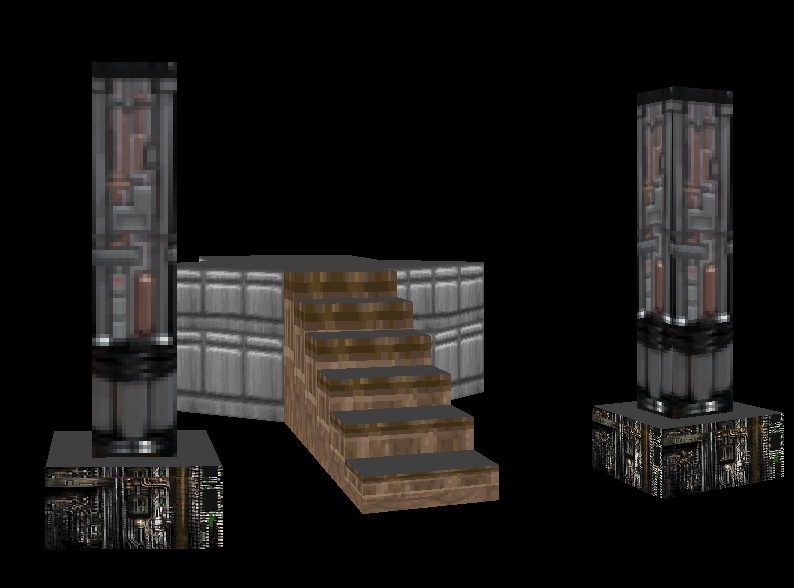
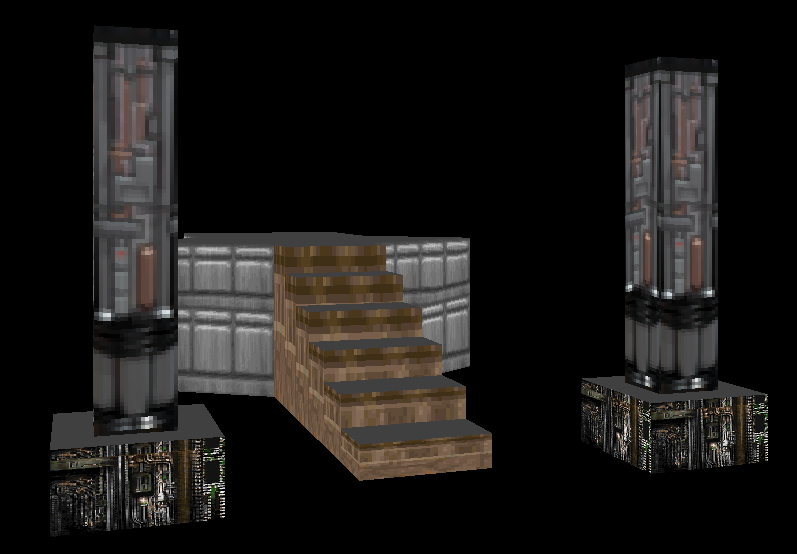
fixed distortion

diff --git a/src/rendering/renderer.cpp b/src/rendering/renderer.cpp
@@ -61,14 +61,13 @@ vertical_surface renderer::compute_surface(sf::RenderWindow* window, projection&
 
 void renderer::render_prism(sf::RenderWindow* window, prism& _prism, std::vector<projection>& projections) {
 
-
-    //std::vector<projection> projections = compute_prism_projections(window, _prism);
-
     if(projections.size() != _prism.edges.size()) {
         // TODO
         return;
     }
 
+
+    // Render walls
 
     int nedges = projections.size();
     int nsurfaces = nedges;
@@ -135,25 +134,21 @@ std::vector<projection> renderer::compute_prism_projections(sf::RenderWindow* wi
             sf::Vector2f rel_pos = edge - sf::Vector2f(_camera->pos.x, _camera->pos.y);
             sf::Vector2f camera_dir_2f(_camera->direction.x, _camera->direction.y);
             float distance = magnitude(rel_pos);
-            float theta = fabs(angle_between_vectors(rel_pos, camera_dir_2f));
-            float distance_undistorted = distance * cos(theta);
-            // float height = projected_height(distance_undistorted, _prism.height);
-            float height = projected_height(distance, _prism.height);
 
             sf::Vector3f top_vertex_3f(edge.x, edge.y, _prism.pos_z + _prism.height/2.f);
-            sf::Vector2f projection_plane_pos = project_point(top_vertex_3f);
+            sf::Vector2f top_projection_plane_pos = project_point(top_vertex_3f);
 
-            float projection_plane_y_top = projection_plane_pos.y;
-            float projection_plane_y_bot = projection_plane_y_top + height;
+            sf::Vector3f bot_vertex_3f(edge.x, edge.y, _prism.pos_z - _prism.height/2.f);
+            sf::Vector2f bot_projection_plane_pos = project_point(bot_vertex_3f); // TODO: avoid projecting x axis twice
 
             float x_scale = window->getSize().x / plane_width;
             float y_scale = window->getSize().y / plane_height;
 
             projections.push_back({
                 .distance = distance,
-                .projection_plane_x = x_scale * projection_plane_pos.x,
-                .projection_plane_y_top = y_scale * projection_plane_y_top,
-                .projection_plane_y_bot = y_scale * projection_plane_y_bot
+                .projection_plane_x = x_scale * top_projection_plane_pos.x,
+                .projection_plane_y_top = y_scale * top_projection_plane_pos.y,
+                .projection_plane_y_bot = y_scale * bot_projection_plane_pos.y
             });
         }
         catch(const std::exception& e) {
@@ -227,9 +222,12 @@ sf::Vector2f renderer::project_point(sf::Vector3f& point) {
     // Y axis projection
 
     float distance = magnitude(point_relative_position);
+    float theta = fabs(angle_between_vectors(point_relative_position, camera_dir_2f));
+    float distance_undistorted = distance * cos(theta);
+
     float delta_z = point.z - _camera->pos.z;
     float delta_z_abs = fabs(delta_z);
-    float projection_plane_delta_y = plane_distance / distance * delta_z_abs;
+    float projection_plane_delta_y = plane_distance / distance_undistorted * delta_z_abs;
     float projection_plane_pos_y = delta_z > 0 ?
         plane_height/2.f - projection_plane_delta_y :
         plane_height/2.f + projection_plane_delta_y;
@@ -239,13 +237,14 @@ sf::Vector2f renderer::project_point(sf::Vector3f& point) {
     return sf::Vector2f(projection_plane_pos_x, projection_plane_pos_y + camera_vertical_rotation_offset);
 }
 
-float renderer::projected_height(float distance, float real_height) {
+// float renderer::projected_height(float distance, float real_height) {
 
-    return 1.f / distance * real_height;
-}
+//     return 1.f / distance * real_height;
+// }
 
 float renderer::compute_prism_depth(const std::vector<projection>& projections) {
 
+    // TODO: improve this (ex: vertical distance)
     float sum_depth = 0.0f;
 
     for(const projection& _projection : projections) {

diff --git a/src/yar.cpp b/src/yar.cpp
@@ -24,7 +24,6 @@ yar::yar() : window(sf::VideoMode(800, 800), "yar"), _camera(),  _renderer(&_cam
 
 
 
-    //load_map();
     _renderer.load_textures_csv("../../../assets/maps/doom_stairs_textures.csv");
     _map.load_csv("../../../assets/maps/doom_stairs.csv");
 }
@@ -33,50 +32,6 @@ yar::~yar() {
 
 
 }
-
-void yar::load_map() {
-
-    //  _renderer.load_texture("stone_wall", "../../../assets/sprites/Stone.png");
-    // _renderer.load_texture("steel_wall", "../../../assets/sprites/Steel.png");
-
-    std::vector<sf::Vector2f> edges = { 
-        sf::Vector2f(3,-1), 
-        sf::Vector2f(3,1), 
-        sf::Vector2f(5,1),
-        sf::Vector2f(5,-1),
-    };
-    std::vector<std::string> surface_texture_ids = {"stone_wall", "stone_wall", "stone_wall", "stone_wall"};
-
-    prism p0 = {
-        .id = "p0",
-        .height = 2,
-        .pos_z = 1,
-        .edges = edges,
-        .surface_texture_ids = surface_texture_ids
-    };
-
-    _map.prisms.insert({p0.id, p0});
-
-    std::vector<sf::Vector2f> edges_2 = { 
-        sf::Vector2f(13,-1), 
-        sf::Vector2f(13,1), 
-        sf::Vector2f(15,1),
-        sf::Vector2f(16,0),
-        sf::Vector2f(15,-1),
-    };
-    std::vector<std::string> surface_texture_ids_2 = {"steel_wall", "steel_wall", "steel_wall", "steel_wall", "steel_wall"};
-
-    prism p1 = {
-        .id = "p1",
-        .height = 3,
-        .pos_z = 1.5,
-        .edges = edges_2,
-        .surface_texture_ids = surface_texture_ids_2
-    };
-
-    _map.prisms.insert({p1.id, p1});   
-}
-
 
 void yar::run() {
 
@@ -125,24 +80,26 @@ void yar::handle_events(double dt) {
 
         switch (event.type)
         {
-        case sf::Event::Closed:
-            window.close();
-            running = false;
-            break;
+            case sf::Event::Closed:
+                window.close();
+                running = false;
+                break;
 
-        case sf::Event::KeyPressed:
-            keys_pressed.find(event.key.code)->second =  true;
-
-            if(event.key.code == sf::Keyboard::I) {
-                _renderer.iter_dir *= -1;
-                printf("iter dir: %d\n", _renderer.iter_dir);
+            case sf::Event::KeyPressed: {
+                auto it = keys_pressed.find(event.key.code);
+                if(it != keys_pressed.end()) {
+                    it->second =  true;
+                }
+                break;
             }
 
-            break;
-
-        case sf::Event::KeyReleased:
-            keys_pressed.find(event.key.code)->second =  false;
-            break;
+            case sf::Event::KeyReleased:  {
+                auto it = keys_pressed.find(event.key.code);
+                if(it != keys_pressed.end()) {
+                    it->second =  false;
+                }
+                break;
+            }
         }
     }
 

diff --git a/include/rendering/renderer.hpp b/include/rendering/renderer.hpp
@@ -22,15 +22,12 @@ public:
     void load_texture(std::string id, std::string texture_file);
     void load_textures_csv(std::string file_path);
 
-
-    int iter_dir = 1;
-
 private:
 
     void render_prism(sf::RenderWindow* window, prism& _prism, std::vector<projection>& projections);
     void render_vertical_surface(sf::RenderWindow* window, vertical_surface& surface);
     sf::Vector2f project_point(sf::Vector3f& point);
-    float projected_height(float distance, float real_height);
+    // float projected_height(float distance, float real_height);
     std::vector<projection> compute_prism_projections(sf::RenderWindow* window, prism& _prism);
     vertical_surface compute_surface(sf::RenderWindow* window, projection& projection_a, projection& projection_b, float height, std::string texture_id);
     float compute_prism_depth(const std::vector<projection>& projections);
